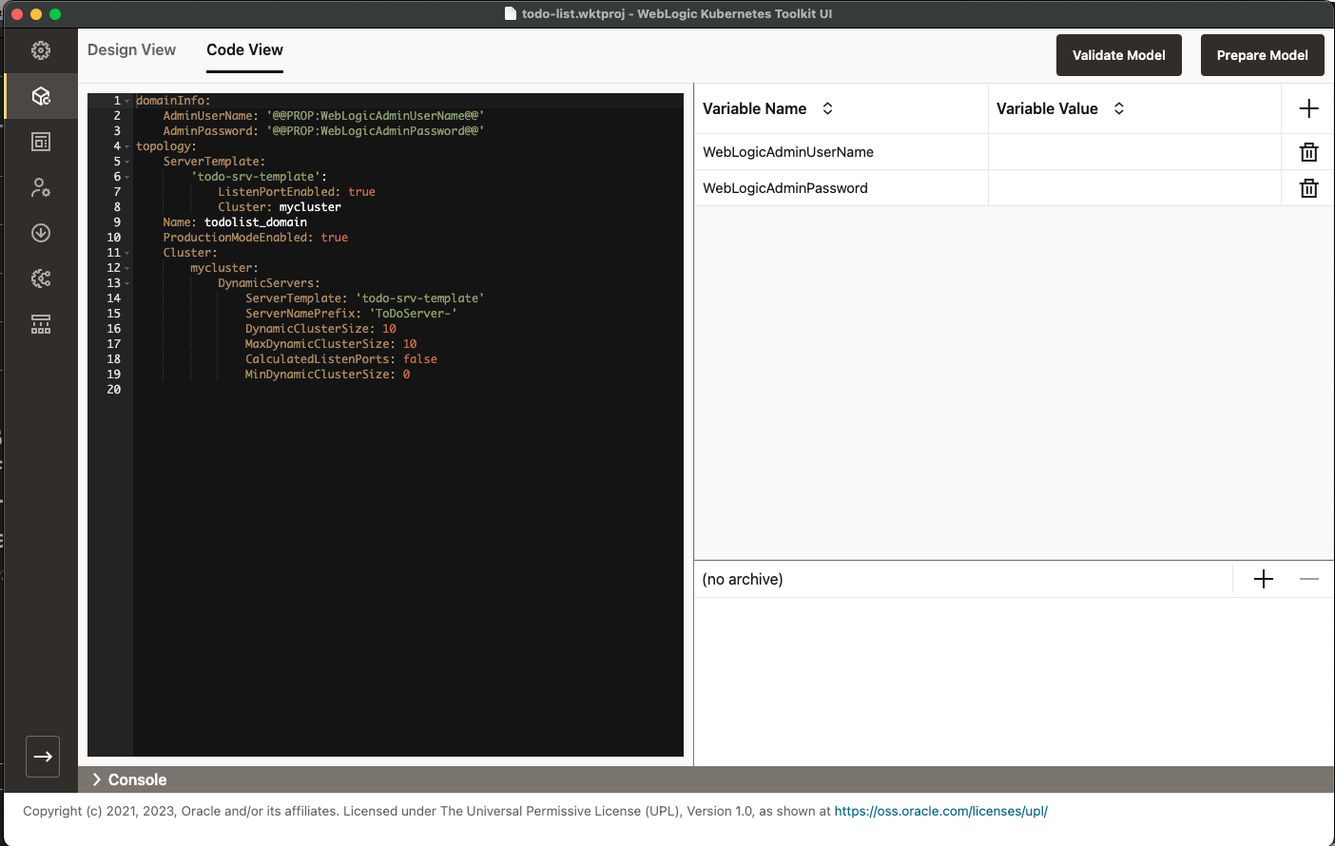
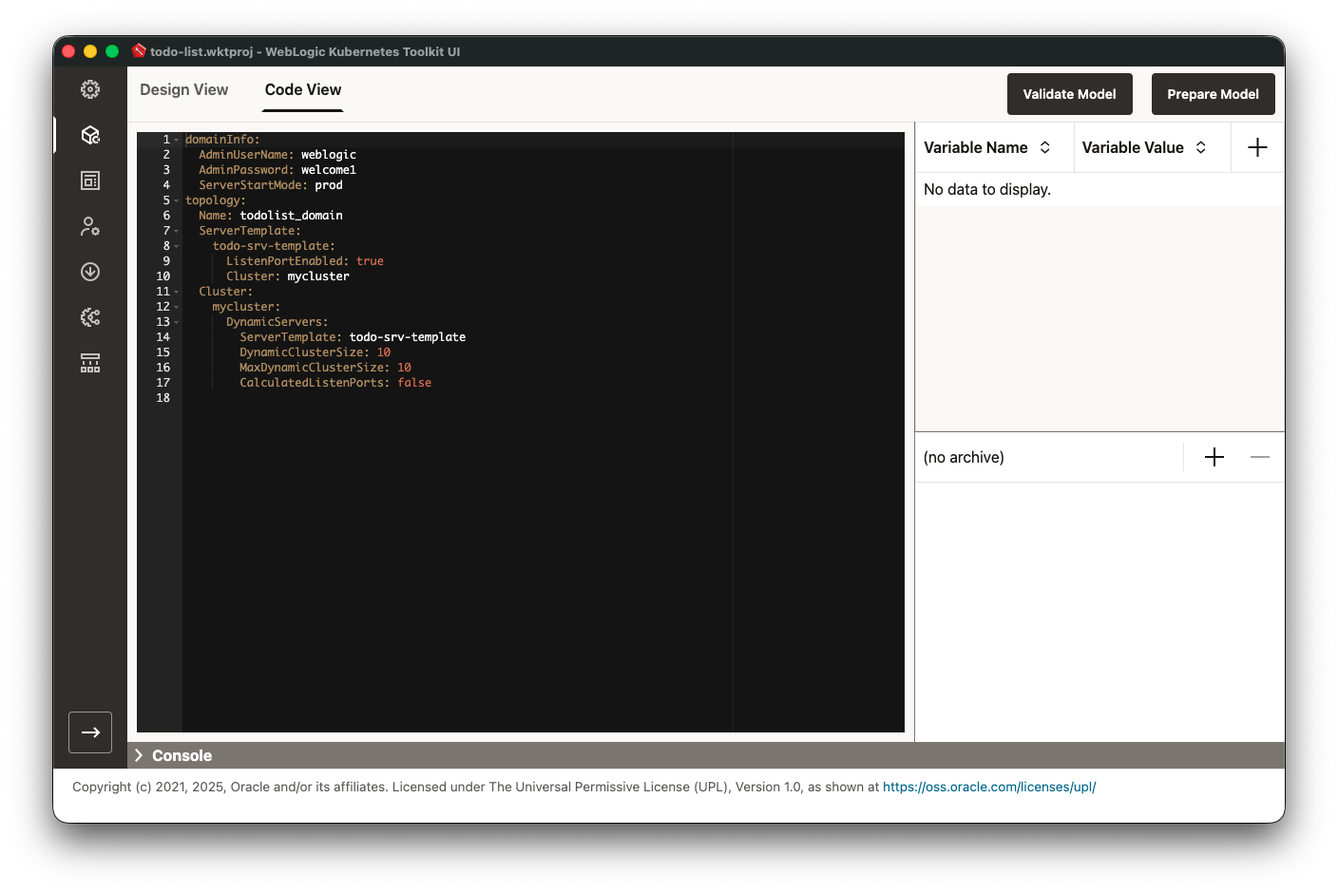
intermediate checkin

diff --git a/documentation/2.0/content/setup/quickstart/create-wdt-model.md b/documentation/2.0/content/setup/quickstart/create-wdt-model.md
@@ -5,15 +5,18 @@ draft: false
 weight: 5
 ---
 
-The WebLogic Deploy Tooling project provides a set of single-purpose tools for performing lifecycle operations of WebLogic
-Server domains.  These tools work off a model of the domain.  The model contains three types of files:
+The WebLogic Deploy Tooling project provides a set of single-purpose tools for performing lifecycle operations of
+WebLogic Server domains.  These tools work off a model of the domain.  The model contains three types of files:
 
-- Model file – A YAML description of the domain that is aligned with WebLogic Scripting Tool (WLST) offline folders and attributes.
-- Variables file – An optional Java properties file that contains key/value pairs where the key matches with a token placed in the model file.
+- Model file – A YAML description of the domain that is aligned with WebLogic Scripting Tool (WLST) offline folders and
+  attributes.
+- Variables file – An optional Java properties file that contains key/value pairs where the key matches with a token
+  placed in the model file.
 - Archive file – An optional ZIP file that contains any file artifacts that need to exist in the domain, for example, a 
   WAR file that contains the binaries for a Web application.
 
-For more detailed WDT information, see the WebLogic Deploy Tooling [documentation](https://oracle.github.io/weblogic-deploy-tooling/concepts/model/).
+For more detailed WDT information, see the WebLogic Deploy Tooling
+[documentation](https://oracle.github.io/weblogic-deploy-tooling/concepts/model/).
 
 WKTUI provides tooling to make it easy for you to create and edit a WDT model.   This image shows the `Model` page, 
 `Design View` tab that allows visual editing of a model.  
@@ -27,7 +30,8 @@ you'll find the variables file editor and the archive file editor. At this point
 {{< img "Model Code View" "images/model-code-view.png" >}}
 
 WKTUI also supports discovering an existing domain to extract the model for that domain.  It accomplishes this by using
-the WDT [Discover Domain](https://oracle.github.io/weblogic-deploy-tooling/userguide/tools/discover/) tool.  To use this functionality, you use the `File` menu, `Add Model` submenu.  The two 
+the WDT [Discover Domain](https://oracle.github.io/weblogic-deploy-tooling/userguide/tools/discover/) tool.  To use this
+functionality, you use the `File` menu, `Add Model` submenu.  The two 
 menu items are:
 
 - `Discover Model (offline)` – With this option, WDT reads the domain directory from the local file system to extract 
@@ -37,11 +41,13 @@ menu items are:
   machine so that WDT has access to the domain’s file system.  
 
 To collect the model from a domain running on another machine, you can use the Remote Discovery option.  With this option,
-at the end of the Discover Domain (online) action, WDT will tell you which files you need to collect and add to the archive file.
+at the end of the Discover Domain (online) action, WDT will tell you which files you need to collect and add to the 
+archive file.
 
 Because the ToDo List application has minimal requirements from the domain, you will create the model by hand.  If you
 would prefer to create a local domain and use the discover model functionality, see 
-[Create ToDo List Domain]({{< relref "/setup/quickstart/qs-advanced#create-the-local-todo-list-domain" >}}) in the Advanced section.
+[Create ToDo List Domain]({{< relref "/setup/quickstart/qs-advanced#create-the-local-todo-list-domain" >}}) in the 
+Advanced section.
 
 ### Create the ToDo List Domain
 
@@ -68,70 +74,87 @@ Next, you will need to create the dynamic cluster.  Select the **Clusters** item
 cluster named `mycluster`. Before moving on to configure the new cluster, return to the Server Template `todo-srv-template`
 page and set the `Cluster` field using the dropdown menu to `mycluster`.
 
-Navigate to the new cluster, `Clusters` > `mycluster`, and select the **Dynamic Servers** tab.  Set the fields to the 
+Navigate to the new cluster, `Clustepartirs` > `mycluster`, and select the **Dynamic Servers** tab.  Set the fields to the 
 values specified in the following table. A couple of things to note:
 
 - The `Max Dynamic Cluster Size` is in the **WLDF Elasticity Framework Settings** expandable setion at the bottom of the page.
-- 
+- Although the `Enabled Calculated Listen Ports` field is already in the `false` position (because it is not in the model
+  yet), the default value is `true`.  As such, you must turn the switch on to add it to the model and then off so that
+  the model value is set to `false`. You might wonder how to remove it from the model if you added it by mistake.  Simply
+  use the three dot menu (also known as the kebab menu) to the right of the control and select the 
+  `Remove the field from the model` radio button and select **OK**.
 
-| Field Name | Value |
-| --- | --- |
-| `Server Template` |  `todo-srv-template` |
-| `Server Name Prefix` |  `ToDoServer-` |
-| `Dynamic Cluster Size` |  `10` |
-| `Max Dynamic Cluster Size` | `10` |
-| `Enable Calculated Listen Ports` | `Off` |
+| Field Name                       | Value                                                        |
+|----------------------------------|--------------------------------------------------------------|
+| `Server Template`                | `todo-srv-template`                                          |
+| `Server Name Prefix`             | `ToDoServer-`                                                |
+| `Dynamic Cluster Size`           | `10`                                                         |
+| `Max Dynamic Cluster Size`       | `10`                                                         |
+| `Enable Calculated Listen Ports` | `Off`                                                        |
 
 ### Create a Data Source
 
-The next step is to create a data source to communicate with the MySQL database.  Before doing that, switch to the `Code View` tab to see what the WDT model looks like so far.
+The next step is to create a data source to communicate with the MySQL database.  Before doing that, switch to the 
+`Code View` tab to see what the WDT model looks like so far.
 
 {{< img "Partial Model Code View" "images/partial-model-code-view.png" >}}
 
-As you can see in the preceding image, the settings you entered are represented in the YAML Editor.  Notice that the model
-editor inserted the fields for the domain’s administrative user name and password, and set the values to tokens of the
-form `@@PROP:<property-name>@@`.  These tokens reference variables; you can see that the variable names were added to the
-Variables Editor.  Go ahead and fill in the values you want to use; for example, `weblogic` for the user name and a strong
-password value for the password.  Now, switch back to the `Design View` tab.
+As you can see in the preceding image, the settings you entered are represented in the YAML Editor. Now, switch back to
+the `Design View` tab.
 
-Go to the `Services` > `Data Sources` area, add a new Data Source using the values in the following table, and then click **Create**.
-Note that you can choose any database user name and password below.  Just make sure that you use these same credentials when deploying the MySQL database later. 
+Go to the **Resources** > **Data Sources** section, add a new Data Source using the values in the following table, 
+and then click **Create**. Note that you can choose any database user name and password below.  Just make sure that you
+use these same credentials when deploying the MySQL database later. 
 
-| Field Name | Value                                                            |
-| --- |------------------------------------------------------------------|
-| `Name` | `myDataSource`                                                   |
-| `JNDI Names` | `jdbc/ToDoDB`                                                    |
-| `Targets` | `mycluster` (move to `Chosen` column)                            |
-| `Datasource Type` | `Generic Data Source`                                            |
-| `Database Type` | `MySQL`                                                          |
-| `Database Driver` | `MySQL’s Driver (Type 4) Versions: using com.mysql.cj.jdbc.Driver` |
-| `Global Transactions Protocol` | `OnePhaseCommit`                                                 |
-| `Database Name` | `tododb`                                                         |
-| `Host Name` | `mysql`                                                          |
-| `Port` | `3306`                                                           |
-| `Database User Name` | Choose a database user name                                      |
-| `Password` | Choose a database password for the database user               |
+| Field Name                     | Value                                                                  |
+|--------------------------------|------------------------------------------------------------------------|
+| `Name`                         | `myDataSource`                                                         |
+| `Datasource Type`              | `Generic Data Source`                                                  |
+| `Targets`                      | `mycluster`                                                            |
+| `Driver Name`                  | `com.mysql.cj.jdbc.Driver`                                             |
+| `URL`                          | `jdbc:mysql://mysql:3306/tododb`                                       |
+| `Password`                     | Choose a database password for the database user                       |
+| `Database User Name`           | Create Property named `user` with the database user name as its value  |
+| `Global Transactions Protocol` | `OnePhaseCommit`                                                       |
+| `JNDI Names`                   | `jdbc/ToDoDB`                                                          |
 
-After the `myDataSource` Data Source is created, go to the `Connection Pool` > `Advanced` tab and make the following changes:
+After the `myDataSource` Data Source is created, go to the **JDBC Connection Pool Parameter** > **Connection Testing**
+tab and make the following changes:
 1.	Enable `Test Connection On Reserve`.
 2.	Set the Test Table Name to `ToDos`.
 
+Now, you need to add the application.  Go to **Deployments** > **Applications** section, add a new application using the
+values in the following table, and then click **Create**.  You must replace the `$QS_HOME` value in the table with the
+path where you stored the Quick Start directory when downloading the code.   
 
-Now, you need to add the application.  Go to `Deployments` > `App Deployments`, add a new application using the values in the following table, and then click **Create**.  You must replace the `$QS_HOME` value in the table with the path where you stored the Quick Start directory when downloading the code.   Note that after the actual file system location is entered, the value will change to reflect its path in the archive file (`wlsdeploy/applications/todo.war`).
+When selecting the application to use, make sure to select the proper application based on the target WebLogic Server
+version you intend to use.  Choose based on the following
 
-| Field Name | Value |
-| --- | --- |
-| `Name` |  `todo` |
-| `Targets` |  `mycluster` (move to `Chosen` column) |
-| `Add Source to Archive` |  `ON` |
-| `Source` | `$QS_HOME/app/target/todo.war` |
+- `$QS_HOME/app/target/todo.war`: Choose this todo.war file for WebLogic Server versions 12.2.1.4 through 14.1.2.0
+- `$QS_HOME/app-jakarta/target/todo.war`: Choose this todo.war for WebLogic Server version 15.1.1.0 or newer
 
-Even though the model is complete enough to create a local domain, you still need to add a few fields so that the WebLogic Kubernetes Operator can use the model.  Switch back to the `Code View` tab.  You will edit the model directly this time.  Make the topology section of the model look like the following.
+When selecting the Source Path using the file chooser, make sure to choose the `Add this file to the archive file` option
+on the `Source Path Location` dialog that follows the file chooser.  Note that after doing this, the `Source Path` value
+will change to reflect its path in the archive file (`wlsdeploy/applications/todo.war`).
+
+| Field Name    | Value                                                                     |
+|---------------|---------------------------------------------------------------------------|
+| `Name`        | `todo`                                                                    |
+| `Source Path` | `$QS_HOME/app/target/todo.war` or `$QS_HOME/app-jakarta/target/todo.war`  |
+| `Targets`     | `mycluster`                                                               |
+
+Even though the model is complete enough to create a local domain, you still need to add a few things so that the 
+WebLogic Kubernetes Operator can use the model.
+
+1. Create a new Server called `AdminServer` without changing any of its attributes.
+2. One the **Topology** page, set the `Admin Server Name` field to `AdminServer`.
+
+Once you have done this, switch back to the `Code View` tab and your topology section of the model should look like
+the following.  Do not worry if the fields or sections are in different orders.
 
 ```
 topology:
     Name: todolist_domain
-    ProductionModeEnabled: true
     AdminServerName: AdminServer
     Server:
         AdminServer:
@@ -143,7 +166,6 @@ topology:
                 DynamicClusterSize: 10
                 MaxDynamicClusterSize: 10
                 CalculatedListenPorts: false
-                MinDynamicClusterSize: 0
     ServerTemplate:
         'todo-srv-template':
             ListenPortEnabled: true
@@ -151,17 +173,26 @@ topology:
 ```
 ### Validate and Prepare the Model
 
-The domain model is now complete.  Go ahead and validate the model by clicking **Validate Model** or using the `Go` menu, `Validate Model Files` menu item.  Doing this will invoke the WDT Validate Model Tool and the Console window at the bottom of the screen will display the output of the tool, as shown in the following image. You can close the Console Window at any time.
+The domain model is now complete.  Go ahead and validate the model by clicking **Validate Model** or using the `Go` menu,
+`Validate Model Files` menu item.  Doing this will invoke the WDT Validate Model Tool and the Console window at the
+bottom of the screen will display the output of the tool, as shown in the following image. You can close the Console
+Window at any time.
 
 {{< img "Validate Model Code View" "images/validate-model-code-view.png" >}}
 
-When deploying a domain in Kubernetes, you need to prepare it for that environment.  The WDT Prepare Model Tool gives you what you need to accomplish that.  WKTUI has a special integration with Prepare Model in that not only does it adjust the model for the Kubernetes environment, but also it returns data extracted from the model that WKTUI needs.  For example, Prepare Model returns the list of WebLogic clusters and non-clustered managed servers that other parts of the application use to tailor the environment for this domain.  Click **Prepare Model** to invoke the WDT Prepare Model Tool.
+When deploying a domain in Kubernetes, you need to prepare it for that environment.  The WDT Prepare Model Tool gives
+you what you need to accomplish that.  WKTUI has a special integration with Prepare Model in that not only does it
+adjust the model for the Kubernetes environment, but also it returns data extracted from the model that WKTUI needs.
+For example, Prepare Model returns the list of WebLogic clusters and non-clustered managed servers that other parts of
+the application use to tailor the environment for this domain.  Click **Prepare Model** to invoke the WDT Prepare Model
+Tool.
 
 Because you chose to use Model-in-Image for the Quick Start exercise, Prepare Model made several changes to your model.
 
 - Replaced credentials with tokens that reference Kubernetes Secrets.
 - Replaced fields like the `Data Source URL` with a token that references a variable.
 
-The following image shows the completed model that is ready to put in an image, so save the project before you move to the next section.
+The following image shows the completed model that is ready to put in an image, so save the project before you move to
+the next section.
 
 {{< img "Prepare Model Code View" "images/prepare-model-code-view.png" >}}

diff --git a/documentation/2.0/content/setup/quickstart/set-up-wktui-app.md b/documentation/2.0/content/setup/quickstart/set-up-wktui-app.md
@@ -31,19 +31,28 @@ in the previous paragraph.
 
 ### WKTUI Startup
 
-WKTUI requires Internet connectivity, not only for proper UI rendering, but also for REST APIs calls that it makes to GitHub for detecting and downloading updates, when they are available, and for determining the available versions of related software.  As such, WKTUI checks for Internet connectivity at application startup.  If WKTUI fails its Internet connectivity check, it will display the Network Configuration dialog.  
+WKTUI requires Internet connectivity, not only for proper UI rendering, but also for REST APIs calls that it makes to
+GitHub for detecting and downloading updates, when they are available, and for determining the available versions of 
+related software.  As such, WKTUI checks for Internet connectivity at application startup.  If WKTUI fails its Internet
+connectivity check, it will display the Network Configuration dialog.  
 
 {{< img "Network Configuration" "images/network-configuration.png" >}}
 
-Enter, correct, or remove your proxy information, as appropriate to connect to the Internet and then click **Try Connection**.  After the connection is successful, **Restart Application** will activate; clicking it will save your configuration and restart the application.
+Enter, correct, or remove your proxy information, as appropriate to connect to the Internet and then click
+**Try Connection**.  After the connection is successful, **Restart Application** will activate; clicking it will save 
+your configuration and restart the application.
 
 ### Updates
 
-WKTUI has a built-in, auto-update functionality.  Each time the application starts, it checks GitHub to determine if a newer version of the application is available.  When a newer version is available, this dialog box appears giving the options of installing the update now, installing the update upon exiting the application, and ignoring the update.    
+WKTUI has a built-in, auto-update functionality.  Each time the application starts, it checks GitHub to determine if a
+newer version of the application is available.  When a newer version is available, this dialog box appears giving the 
+options of installing the update now, installing the update upon exiting the application, and ignoring the update.    
 
 {{< img "Auto Update" "images/auto-update.png" >}}
 
-If the update is not installed, the application will prompt you again the next time it starts. At any time, you can check for application updates by using the `Help` > `Check for WKT UI Updates` menu item.  Note that this auto-update functionality is not available when installing using the traditional Linux RPM or DEB installers.
+If the update is not installed, the application will prompt you again the next time it starts. At any time, you can 
+check for application updates by using the `Help` > `Check for WKT UI Updates` menu item.  Note that this auto-update 
+functionality is not available when installing using the traditional Linux RPM or DEB installers.
 
 ### WKT Tools
 
@@ -52,23 +61,36 @@ WKTUI bundles two other open source tools that are part of the WebLogic Kubernet
 - [WebLogic Deploy Tooling](https://github.com/oracle/weblogic-deploy-tooling) (WDT)
 - [WebLogic Image Tool](https://github.com/oracle/weblogic-image-tool) (WIT)
 
-Each release of the WKTUI application bundles the latest releases of these tools, however, you can check for updated versions between WKTUI releases by using the `Help` > `Check for WKT Tools Updates` menu item.  If an update for one or both tools is available, a dialog box, like the following one, will be displayed. Click **Update Tool(s)**  to update the bundled tools.
+Each release of the WKTUI application bundles the latest releases of these tools, however, you can check for updated 
+versions between WKTUI releases by using the `Help` > `Check for WKT Tools Updates` menu item.  If an update for one or 
+both tools is available, a dialog box, like the following one, will be displayed. Click **Update Tool(s)**  to update 
+the bundled tools.
 
 {{< img "Tools Update" "images/wkt-tools-update.png" >}}
 
 ### User Preferences
 
-WKTUI supports user preferences; that is, preferences that are specific to a user on a particular machine.  To open the User Preferences dialog on Windows or Linux, use the `File` > `Preferences` menu item.  On macOS, use the `WebLogic Kubernetes Toolkit UI` > `Settings` menu item.  
+WKTUI supports user preferences; that is, preferences that are specific to a user on a particular machine.  To open the 
+User Preferences dialog on Windows or Linux, use the `File` > `Preferences` menu item.  On macOS, use the 
+`WebLogic Kubernetes Toolkit UI` > `Settings` menu item.  
 
 {{< img "User Preferences" "images/user-preferences.png" >}}
 
 Using this dialog, you have access to view and edit settings in the following areas:
 
 - `Proxy Configuration` – Change the proxy and no proxy settings for the network.
-- `GitHub API credential` - Specify a GitHub token (with no specific permissions required) that will be used to make GitHub requests and bypass the GitHub anonymous API request quota. 
+- `GitHub API credential` - Specify a GitHub token (with no specific permissions required) that will be used to make 
+   GitHub requests and bypass the GitHub anonymous API request quota. 
 - `Logging Configuration` – Change the logging level and log directory location.
-- `Startup Internet Connectivity Test Configuration` – Change the timeout on the Internet connection check.  This is the same as the Request Timeout Seconds field.
-- `WebLogic Kubernetes Toolkit UI Introduction Configuration` – Change whether the introduction shows at application startup or not.
+- `Startup Internet Connectivity Test Configuration` – Change the timeout on the Internet connection check.  This is the
+   same as the Request Timeout Seconds field.
+- `WebLogic Kubernetes Toolkit UI Introduction Configuration` – Change whether the introduction shows at application
+   startup or not.
+
+Note that there may be one or two extra areas when running on Linux that allow you:
+- `Linux Disable Hardware Acceleration` - Change whether hardware acceleration is disabled.
+- `AppImage WKT Tools Configuration` - When running from the AppImage, allow you to specify a directory to use for
+   updated WDT and WIT tool versions (since the AppImage executable cannot be updated directly).
 
 ### Explore WKTUI
 

diff --git a/documentation/2.0/content/setup/quickstart/_index.md b/documentation/2.0/content/setup/quickstart/_index.md
@@ -6,13 +6,15 @@ pre = "<b> </b>"
 description = "Use the Quick Start guide to exercise WKT UI functionality and deploy a sample application."
 +++
 
-This Quick Start guide provides a comprehensive tutorial designed to step you through WebLogic Kubernetes Toolkit UI (WKTUI)
-functionality and familiarize you with its capabilities. WKTUI is a desktop application that helps you create and deploy WebLogic
-domains into Kubernetes. Using this guide, you will deploy a sample WebLogic-based application to a Kubernetes cluster.
+This Quick Start guide provides a comprehensive tutorial designed to step you through WebLogic Kubernetes Toolkit UI 
+(WKTUI) functionality and familiarize you with its capabilities. WKTUI is a desktop application that helps you create
+and deploy WebLogic domains into Kubernetes. Using this guide, you will deploy a sample WebLogic-based application to a
+Kubernetes cluster.
 
-Note that this walk-through is for demonstration purposes _only_, not for use in production. These instructions assume that you are already familiar with Kubernetes.
-For this exercise, you’ll need a Kubernetes cluster. If you need help setting one up, see these instructions for setting up an [Oracle Cloud Infrastructure
-Container Engine for Kubernetes (OKE) cluster](https://docs.oracle.com/en-us/iaas/Content/ContEng/Concepts/contengoverview.htm).
+Note that this walk-through is for demonstration purposes _only_, not for use in production. These instructions assume
+that you are already familiar with Kubernetes. For this exercise, you’ll need a Kubernetes cluster. If you need help
+setting one up, see these instructions for setting up an
+[Oracle Cloud Infrastructure Container Engine for Kubernetes (OKE) cluster](https://docs.oracle.com/en-us/iaas/Content/ContEng/Concepts/contengoverview.htm).
 
 The Quick Start guide is divided into the following sections:
 
@@ -22,7 +24,7 @@ The Quick Start guide is divided into the following sections:
 - [Select the Project Settings]({{< relref "/setup/quickstart/project-settings.md" >}})
 - [Create the WebLogic Deploy Tooling model]({{< relref "/setup/quickstart/create-wdt-model.md" >}})
 - [Create images with the WebLogic Image Tool]({{< relref "/setup/quickstart/create-images-with-wit.md" >}})
-- [WebLogic Kubernetes Operator (WKO)]({{< relref "/setup/quickstart/qs-kubernetes/" >}}) Track: follow these steps if you are interested in using a Kubernetes cluster without Verrazzano.
+- [WebLogic Kubernetes Operator (WKO)]({{< relref "/setup/quickstart/qs-kubernetes/" >}})
   - [Configure Kubernetes Cluster Connectivity]({{< relref "/setup/quickstart/qs-kubernetes/k8s-client-config.md" >}})
   - [Install the WebLogic Kubernetes Operator]({{< relref "/setup/quickstart/qs-kubernetes/k8s-wko.md" >}})
   - [Deploy the Domain]({{< relref "/setup/quickstart/qs-kubernetes/k8s-weblogic-domain.md" >}})

diff --git a/documentation/2.0/content/setup/quickstart/get-todo-app.md b/documentation/2.0/content/setup/quickstart/get-todo-app.md
@@ -4,8 +4,8 @@ date: 2019-02-22T15:44:42-05:00
 draft: false
 weight: 2
 ---
-The Quick Start tutorial employs a simple ToDo List application that uses a MySQL database running in a container to maintain its state.
-To get the application and supporting files, use one of the following methods:
+The Quick Start tutorial employs a simple ToDo List application that uses a MySQL database running in a container to 
+maintain its state. To get the application and supporting files, use one of the following methods:
 
 - Download the [`quickstart.zip`](https://github.com/oracle/weblogic-toolkit-ui/releases/latest/downloads/quickstart.zip) 
   or [`quickstart.tar.gz`](https://github.com/oracle/weblogic-toolkit-ui/releases/latest/downloads/quickstart.tar.gz) file
